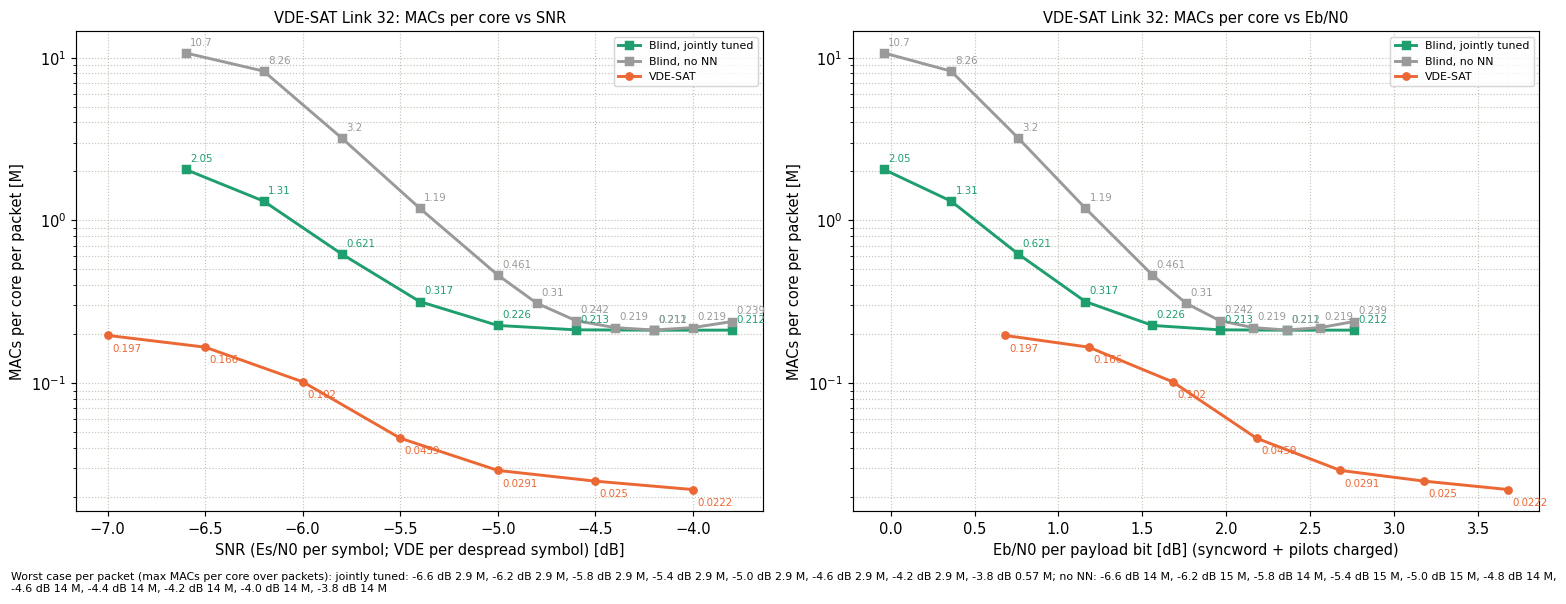
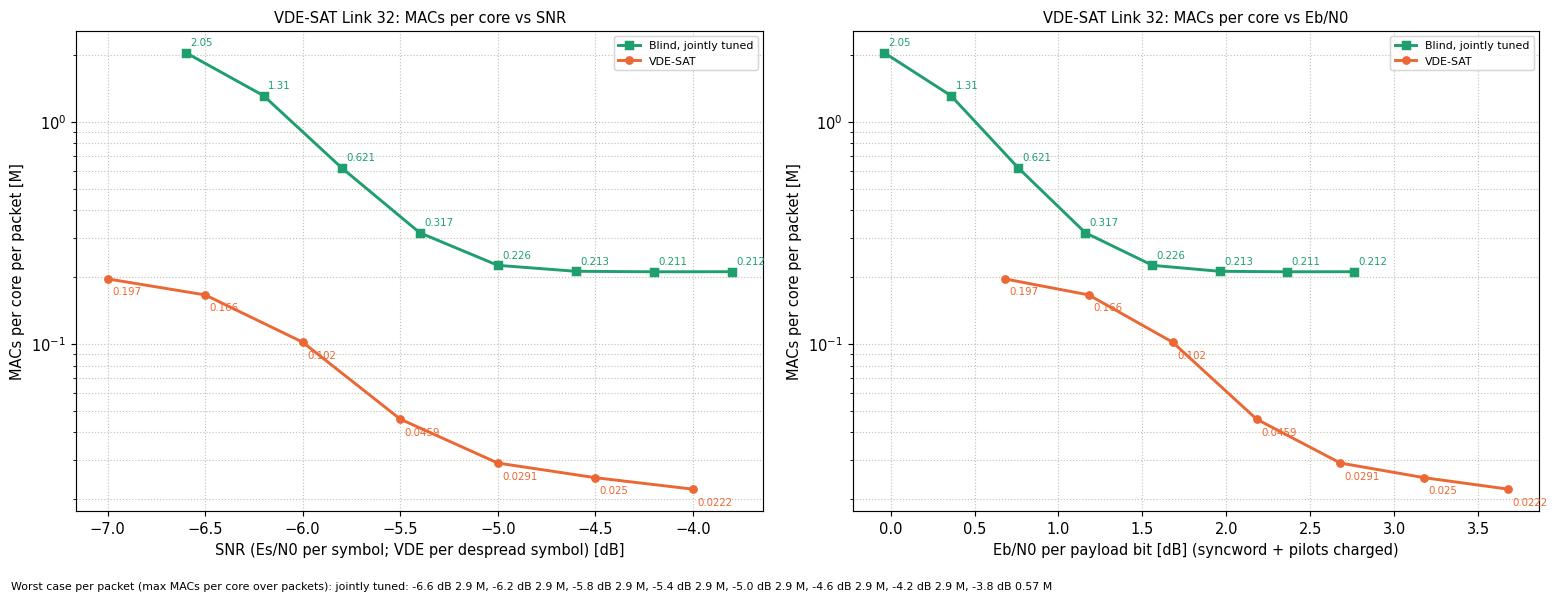
Plots cleanup and final VDE receiver (one phase guess)
- Removed superseded full-system plots (superseded/ folders, before-tuning overviews fs_final_id*,
  fs_vde_capped, DVB fs_macs_vs_snr); all links updated, plots/README rewritten.
- VDE final = jointly tuned + one phase guess: overview, MACs vs SNR and MAC-cap plots redrawn,
  "Blind, no NN" removed from the VDE overview and MACs vs SNR.
- Docs: summary_fullsys_2026-11-18.md, README / NEWS / tuning record for the one-phase adoption;
  decision and finalize scripts (vde_onephase_decision.py, finalize_vde.py).

diff --git a/BLIND_IMPLEMENTATION/testing/plot_vde_final.py b/BLIND_IMPLEMENTATION/testing/plot_vde_final.py
@@ -36,12 +36,11 @@ f, ax = plt.subplots(2, 2, figsize=(15, 10))
 for (a, xl, ov, ob) in ((ax[0, 0], "Eb/N0 per payload bit [dB] (syncword + pilots charged)", OV, OB), (ax[0, 1], "SNR (Es/N0 per symbol) [dB]", 0, 0)):
     a.semilogy(np.array(vi["es"]) + ov, vi["p"], "--o", color=C["vi"], ms=4, lw=1.5, label=L["vi"])
     a.semilogy(np.array(vd["es"]) + ov, vd["p"], "-o", color=C["vd"], ms=5, lw=2, label=L["vd"])
-    a.semilogy(np.array(b0["es"]) + ob, b0["p"], "-s", color=C["b0"], ms=5, lw=1.5, label=L["b0"])
     a.semilogy(np.array(b1["es"]) + ob, b1["p"], "--s", color=C["b1"], ms=5, lw=1.5, label=L["b1"])
     a.semilogy(np.array(b2["es"]) + ob, b2["p"], "-D", color=C["b2"], ms=6, lw=2, label=L["b2"])
     a.set_xlabel(xl); a.set_ylabel("BLER"); a.set_ylim(1e-6, 1.1); a.grid(True, which="both", ls=":", color="#c3c2b7"); a.legend(fontsize=7.5, loc="lower left")
 for (a, xl, ov, ob) in ((ax[1, 0], "Eb/N0 per payload bit [dB] (syncword + pilots charged)", OV, OB), (ax[1, 1], "SNR (Es/N0 per symbol) [dB]", 0, 0)):
-    for k, d in (("vd", vd), ("b0", b0), ("b1", b1), ("b2", b2)):
+    for k, d in (("vd", vd), ("b1", b1), ("b2", b2)):
         x = np.array(d["es"]) + (ov if k == "vd" else ob)
         a.semilogy(x, d["m"], "-o" if k == "vd" else "-s", color=C[k], lw=2, ms=5, label=L[k])
         for xx, v in zip(x, d["m"]): a.annotate(f"{v:.3g}", (xx, v), textcoords="offset points", xytext=(4, 4), fontsize=7, color=C[k])

diff --git a/BLIND_IMPLEMENTATION/testing/results/plots/README.md b/BLIND_IMPLEMENTATION/testing/results/plots/README.md
@@ -2,13 +2,13 @@
 
 | Folder | What is in it | Made by |
 |---|---|---|
-| `DVB-RCS2/overview/` | One figure per waveform ID (13, 42, 3, 14): BLER vs Eb/N0 (known symbols charged / free), BLER vs SNR, MACs vs Eb/N0 and vs SNR; blind final receiver vs DVB-RCS2 with its own DA CFO estimate | `testing/plot_fs_final.py` |
+| `DVB-RCS2/overview/` | `fs_tuned_<ID>.png`, one per waveform ID (13, 42, 3, 14): BLER and mean MACs per core vs Eb/N0 (known symbols charged) and vs SNR; DVB-RCS2 vs blind before tuning vs blind jointly tuned (final); worst case in the footnote | `testing/plot_fs_tuned.py`; tables `testing/dvb_tuned_table.py` |
 | `DVB-RCS2/BLER/` | BLER with and without a per-packet MAC cap (`fs_final_capped`, `fs_bler_capped`), DVB-RCS2 reference validation (`fullsys_refs`), ID 14 code-only | `plot_fs_final.py`, `plot_fullsys_refs.py` |
-| `DVB-RCS2/MACs/` | BLER vs mean MACs, BLER vs max MACs, BLER vs MAC budget, BLER/MACs vs MAC cap | scratchpad scripts (2026-11-17) |
+| `DVB-RCS2/MACs/` | Receiver before joint tuning: BLER vs mean MACs, BLER vs max MACs, BLER vs MAC budget, BLER/MACs vs MAC cap | scratchpad scripts (2026-11-17) |
 | `DVB-RCS2/tuning/` | Evidence for the chosen thresholds: F5 early-stop sweep (`fs_tuning_f5`, incl. VDE), checkpoint NN off / old / retrained (`fs_nn_compare`) | `plot_tuning_f5.py`; see `results/tuning_fullsys.md` |
-| `DVB-RCS2/superseded/` | Earlier versions (before the final receiver / honest MAC accounting); kept for history | - |
-| `VDE-SAT/overview/` | VDE-SAT Link 32 vs blind (no NN / before tuning / jointly tuned): BLER and MACs vs Eb/N0 and vs SNR | `testing/plot_vde_final.py` (arg: the tuned part prefix, default `fs-gv32km`) |
-| `VDE-SAT/MACs/` | MACs vs SNR (mean, worst case); jointly tuned receiver regular vs MAC cap 2 / 1 / 0.5 M: BLER (`fs_vde_tuned_capped`) and MACs (`fs_vde_tuned_macs_capped`); older cap plot `fs_vde_capped` (receiver before tuning) | scratchpad scripts (2026-11-17/18), data `fullsys/results/capcurve_vde32*.json` |
+| `VDE-SAT/overview/` | VDE-SAT Link 32 vs blind (no NN / before tuning / jointly tuned): BLER and MACs vs Eb/N0 and vs SNR | `testing/plot_vde_final.py` (arg: the tuned part prefix, final = `fs-gv32om`: jointly tuned + one phase guess) |
+| `VDE-SAT/MACs/` | MACs vs SNR (mean; worst case in the footnote); jointly tuned receiver regular vs MAC cap 2 / 1 / 0.5 M: BLER (`fs_vde_tuned_capped`) and MACs (`fs_vde_tuned_macs_capped`) | scratchpad scripts (2026-11-17/18), data `fullsys/results/capcurve_vde32*.json` |
 | `VDE-SAT/tuning/` | MAC-cut comparison on calibration packets (`fs_vde_mac_cuts`) | scratchpad script; record `results/tuning_fullsys.md` |
-| `VDE-SAT/superseded/` | First VDE results | - |
 | `original_study/` | The original blind study (R = 1/10, 0.15, 2/5, 1/2; 1024-symbol packets): BLER / MACs curves, presentation figures, thresholds, cap, fast path | the other `testing/plot_*.py` scripts |
+
+Cleanup 2026-11-18: the `superseded/` folders and the before-tuning overviews (`fs_final_id*`, `fs_vde_capped`, DVB `fs_macs_vs_snr`) were removed; they are in the git history (commit c145a99).

diff --git a/fullsys/README.md b/fullsys/README.md
@@ -412,7 +412,7 @@ from the plots.
   No cap passed the 2 % rule at the operating points. Plots:
   [DVB-RCS2/MACs/](../BLIND_IMPLEMENTATION/testing/results/plots/DVB-RCS2/MACs/),
   [fs_final_capped.png](../BLIND_IMPLEMENTATION/testing/results/plots/DVB-RCS2/BLER/fs_final_capped.png) and
-  [VDE-SAT/MACs/fs_vde_capped.png](../BLIND_IMPLEMENTATION/testing/results/plots/VDE-SAT/MACs/fs_vde_capped.png).
+  [VDE-SAT/MACs/fs_vde_tuned_capped.png](../BLIND_IMPLEMENTATION/testing/results/plots/VDE-SAT/MACs/fs_vde_tuned_capped.png) (the plot of the receiver before tuning was removed 2026-11-18).
   For VDE, a cap of 1 M per core raises the BLER from 3e-4 to 2.9e-3 at -4.6 dB.
 
 ### 6.1 DVB-RCS2 jointly tuned (fresh test packets, paired with the receiver before tuning)
@@ -491,13 +491,13 @@ generated by `py BLIND_IMPLEMENTATION/testing/plot_fs_tuned.py` then `py BLIND_I
 
 **Plots.**
 
-| Format | Final (jointly tuned) | Before tuning |
-|---|---|---|
-| ID 13 | [fs_tuned_id13.png](../BLIND_IMPLEMENTATION/testing/results/plots/DVB-RCS2/overview/fs_tuned_id13.png) | [fs_final_id13.png](../BLIND_IMPLEMENTATION/testing/results/plots/DVB-RCS2/overview/fs_final_id13.png) |
-| ID 42 | [fs_tuned_id42b.png](../BLIND_IMPLEMENTATION/testing/results/plots/DVB-RCS2/overview/fs_tuned_id42b.png) | [fs_final_id42b.png](../BLIND_IMPLEMENTATION/testing/results/plots/DVB-RCS2/overview/fs_final_id42b.png) |
-| ID 3 | [fs_tuned_id3.png](../BLIND_IMPLEMENTATION/testing/results/plots/DVB-RCS2/overview/fs_tuned_id3.png) | [fs_final_id3.png](../BLIND_IMPLEMENTATION/testing/results/plots/DVB-RCS2/overview/fs_final_id3.png) |
-| ID 14 | [fs_tuned_id14s.png](../BLIND_IMPLEMENTATION/testing/results/plots/DVB-RCS2/overview/fs_tuned_id14s.png) | [fs_final_id14s.png](../BLIND_IMPLEMENTATION/testing/results/plots/DVB-RCS2/overview/fs_final_id14s.png) |
-| VDE 32 | [fs_vde32_final.png](../BLIND_IMPLEMENTATION/testing/results/plots/VDE-SAT/overview/fs_vde32_final.png) (both on one figure) | |
+| Format | Figure (jointly tuned + before tuning + competitor) |
+|---|---|
+| ID 13 | [fs_tuned_id13.png](../BLIND_IMPLEMENTATION/testing/results/plots/DVB-RCS2/overview/fs_tuned_id13.png) |
+| ID 42 | [fs_tuned_id42b.png](../BLIND_IMPLEMENTATION/testing/results/plots/DVB-RCS2/overview/fs_tuned_id42b.png) |
+| ID 3 | [fs_tuned_id3.png](../BLIND_IMPLEMENTATION/testing/results/plots/DVB-RCS2/overview/fs_tuned_id3.png) |
+| ID 14 | [fs_tuned_id14s.png](../BLIND_IMPLEMENTATION/testing/results/plots/DVB-RCS2/overview/fs_tuned_id14s.png) |
+| VDE 32 | [fs_vde32_final.png](../BLIND_IMPLEMENTATION/testing/results/plots/VDE-SAT/overview/fs_vde32_final.png) |
 
 ## 7. Tuning methodology (full record: [tuning_fullsys.md](../BLIND_IMPLEMENTATION/testing/results/tuning_fullsys.md))
 

diff --git a/BLIND_IMPLEMENTATION/testing/results/tuning_fullsys.md b/BLIND_IMPLEMENTATION/testing/results/tuning_fullsys.md
@@ -65,7 +65,7 @@ k4 final 16, k5 first_k null (DVB) / batch null (VDE). Result 2026-11-17:
 ## VDE-SAT MAC cuts (started 2026-11-17, CFO range stays +-0.03 by user decision)
 Where the MACs go (fs-gv32m46, -4.6 dB, per core h+d4a): 0.423 M with the NN = CFO grid ~0.23 M (248 cells x 2 phases,
 fixed per packet) + NN checkpoint cells (charge-all) + decodes; no NN 0.242 M (grid ~0.2 M). The "stage 1" 15k is the
-squared-signal FFT coarse estimate (fast path already off: s0_snr 0.5), not waste. MAC caps: no use (VDE-SAT/MACs/fs_vde_capped.png:
+squared-signal FFT coarse estimate (fast path already off: s0_snr 0.5), not waste. MAC caps: no use (fs_vde_capped.png, receiver before tuning, removed 2026-11-18; tuned receiver: VDE-SAT/MACs/fs_vde_tuned_capped.png:
 cap 1 M -> BLER 3e-4 -> 2.9e-3 at -4.6 dB; the ~0.4 M floor is paid by every packet).
 
 Candidates, all on calibration packets (seed 8032 --calib, -5.4 / -5.0 / -4.6 dB, paired with fs-ztv32k0):

diff --git a/BLIND_IMPLEMENTATION/NEWS.md b/BLIND_IMPLEMENTATION/NEWS.md
@@ -50,7 +50,7 @@ Newest first. One item per research result. Details in the linked files; sources
   packets, validated by replay on the test packets).
 - Two fixes were needed: a rate-matching-aware polar construction (GA, +0.35-0.4 dB) and a random channel interleaver
   (without it a pi/2 QPSK rotation maps codewords to codewords and 37 % of packets fail; see 01_signal_model.md).
-- Plot: [fs_id13_blind.png](testing/results/plots/DVB-RCS2/superseded/fs_id13_blind.png). Next: ID 42, then ID 3.
+- Plot: fs_id13_blind.png (first version, removed 2026-11-18; in git history before commit of 2026-11-18). Next: ID 42, then ID 3.
 
 ## 2026-11-17 11:40 (full-system build) — DVB-RCS2 and polar rate matching coded; their published curves collected
 - `fullsys/turbo_db.py` + `rcs2.py`: DVB-RCS2 TC-LM (IDs 3, 13, 14, 42), self-test 36/36; `fullsys/polar_rm.py`: NR-style

diff --git a/BLIND_IMPLEMENTATION/testing/results/expected_fullsys.md b/BLIND_IMPLEMENTATION/testing/results/expected_fullsys.md
@@ -182,7 +182,7 @@ roughly 2x from the broken smoke (median 3.5 M).
 Cap smoke (fs-b13cap, 300 paired packets at -0.6 and -0.2): predicted 0 packets lost by the 5 M cap at -0.2,
 0-2 at -0.6 (if > 0 the cap is not adopted as is).
 
-## Measured: BLIND vs DVB-RCS2, ID 13 (2026-11-17 ~14:00) — plot testing/results/plots/DVB-RCS2/superseded/fs_id13_blind.png
+## Measured: BLIND vs DVB-RCS2, ID 13 (2026-11-17 ~14:00) — plot fs_id13_blind.png (first version, removed 2026-11-18; see git history)
 Blind = fixed receiver (channel interleaver, GA CA-SCL-8, CRC-32, CFO +-0.03, early stops off). No-cap errors =
 err - right-before-cap (the 5 M cap was applied after the receive, so this is exact).
 | Es/N0 | Eb/N0 (blind axis) | blind errors / packets | blind BLER | blind MACs/core (mean) |
